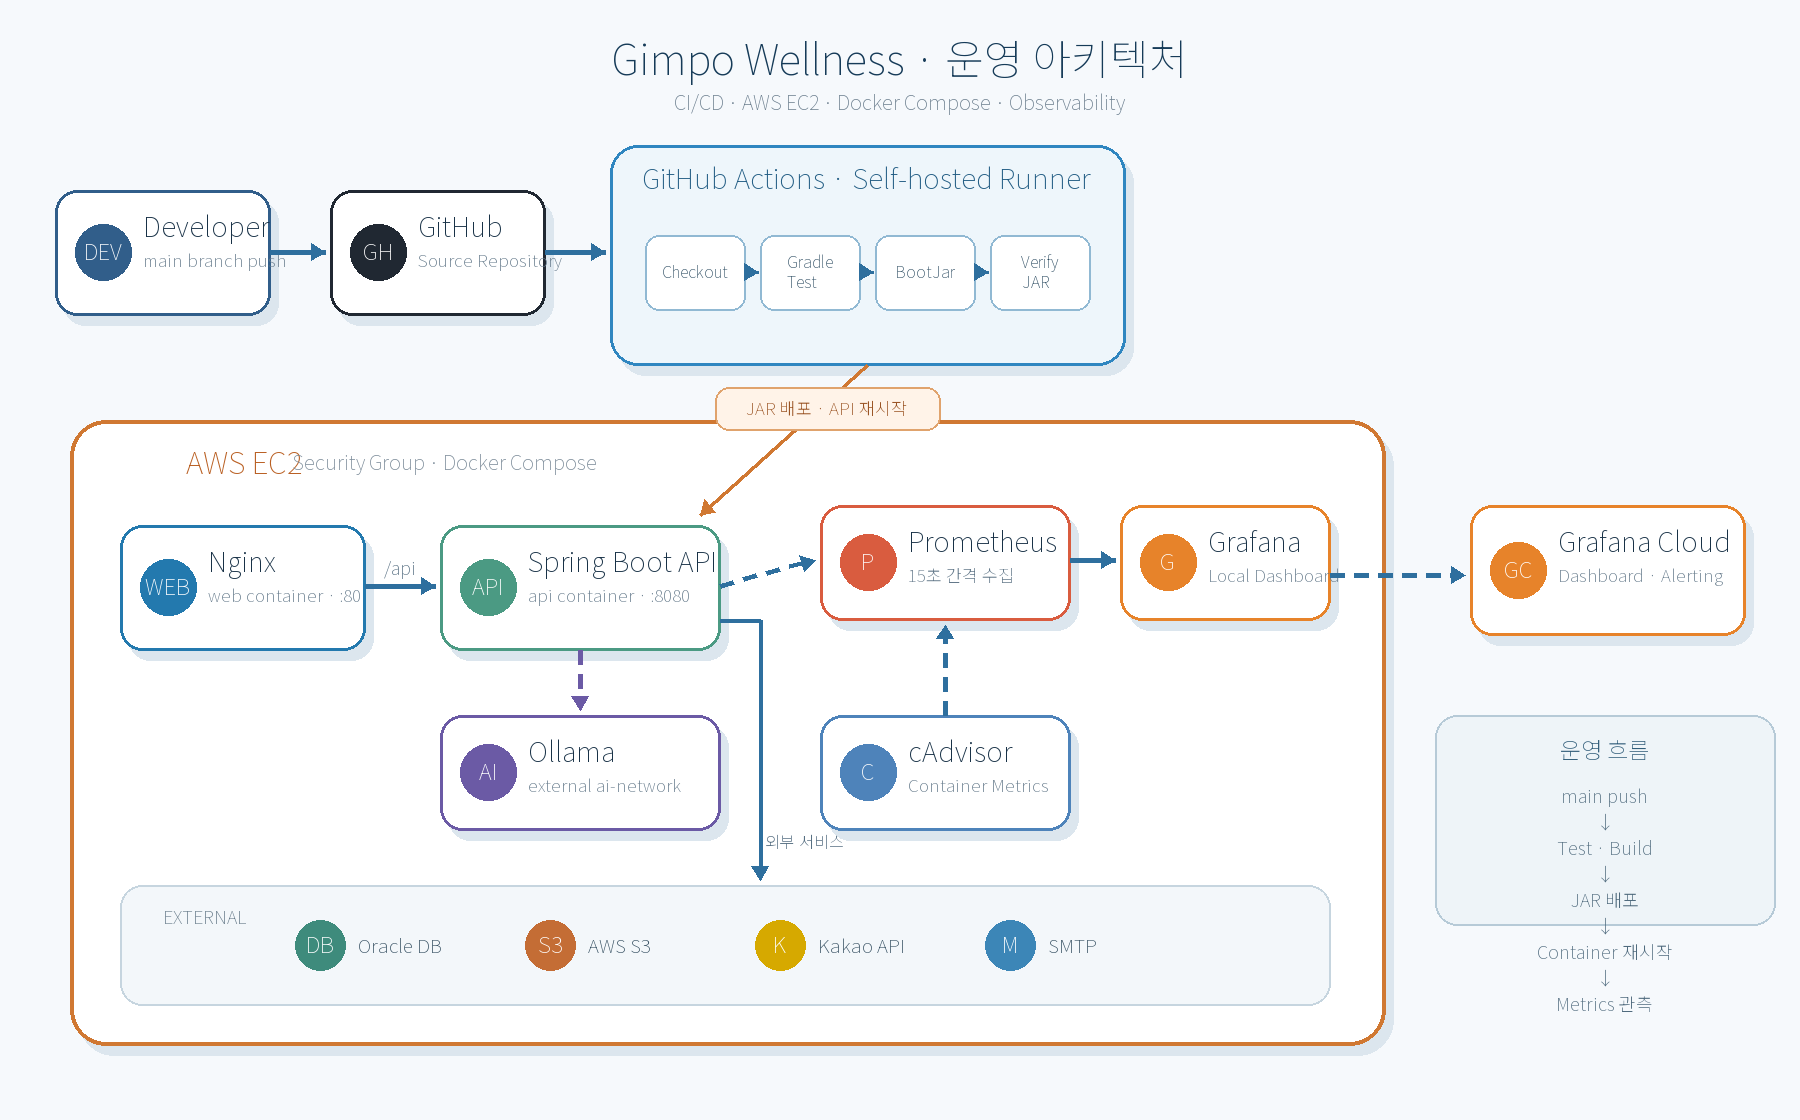
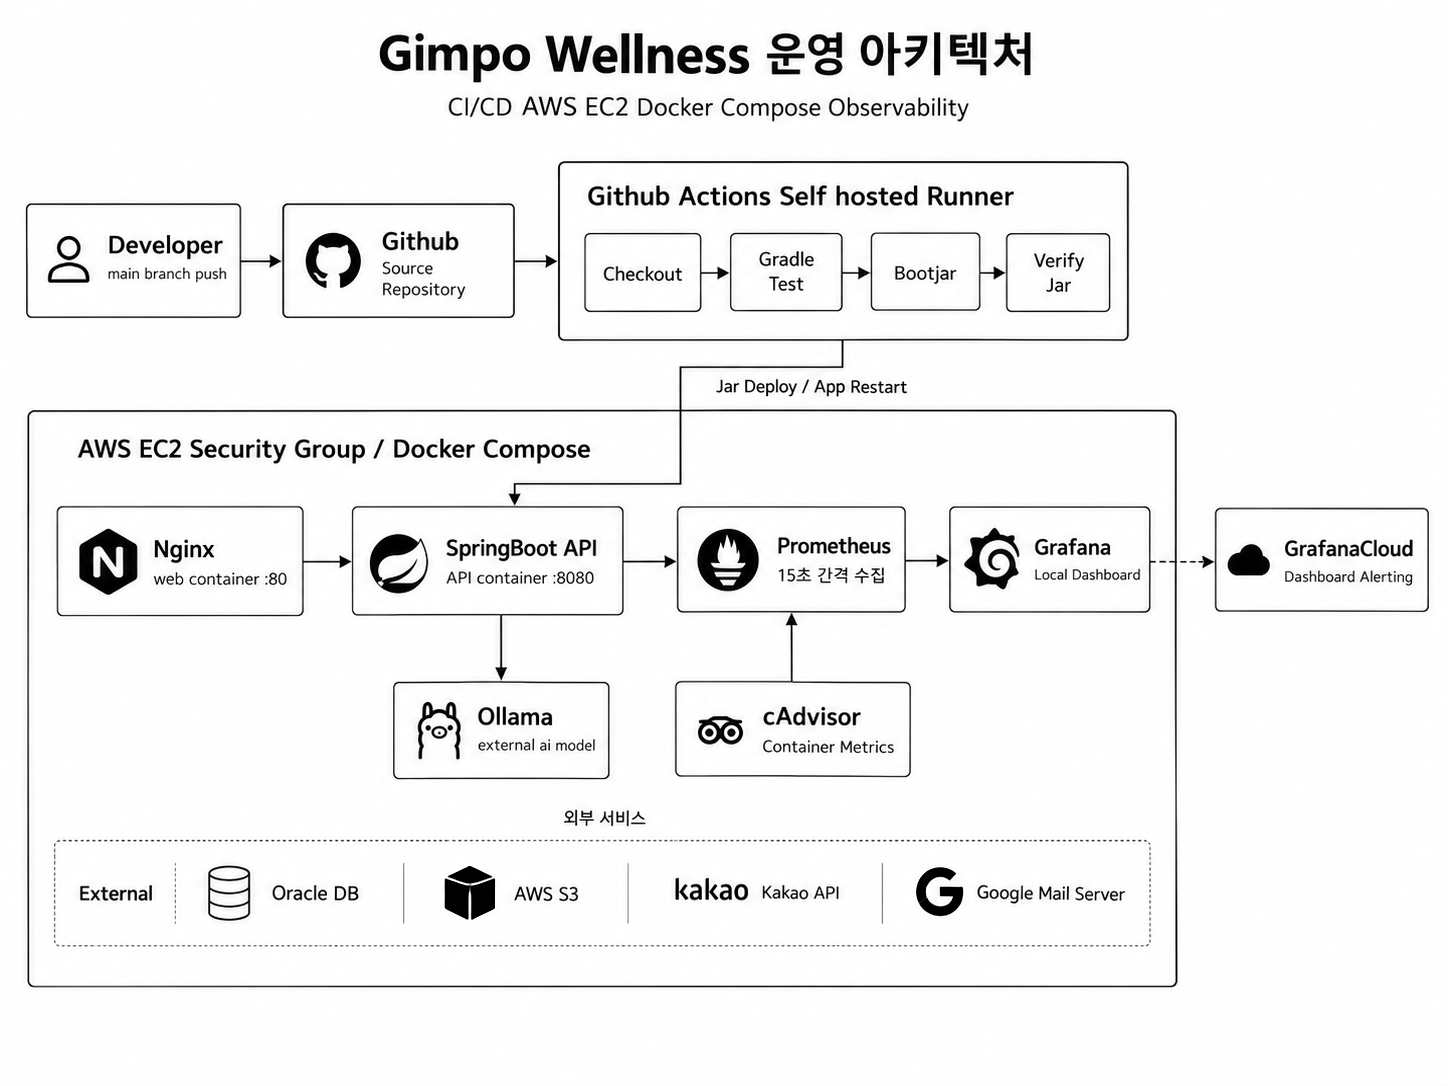
fix:아키텍처 이미지 교체 및 docker-compose 최신화

diff --git a/README.md b/README.md
@@ -2,8 +2,6 @@
 
 > 김포 관광 데이터를 연결하고, 사용자 조건에 맞는 여행 코스를 만드는 백엔드 API 서버
 
-
-
 <p align="center">
   <a href="https://gimpo-wellness.com">
     <img src="https://img.shields.io/badge/배포_서비스-바로가기-2F6F61?style=for-the-badge&logo=safari&logoColor=white" alt="배포 서비스 바로가기" />
@@ -13,7 +11,6 @@
   </a>
 </p>
 
-<!-- 완성된 GIF를 docs/images/gimpo-wellness-intro.gif 경로에 추가합니다. -->
 <p align="center">
   <img src="docs/images/gimpo-wellness-intro.gif" alt="Gimpo Wellness 프로젝트 소개" width="900" />
 </p>
@@ -28,12 +25,12 @@ Gimpo Wellness는 김포의 관광지·음식점·체험 시설을 한곳에서 
 
 백엔드는 이를 장소 통합 조회, 세부 분류와 태그, 김포 TOP 10, 주변 음식점, 길찾기, 여행 코스 추천 API로 구체화했습니다. 실시간 영업 여부와 단체 수용 인원처럼 검증 데이터가 부족한 항목은 향후 과제로 구분했습니다.
 
-| 항목 | 내용 |
-| --- | --- |
-| 프로젝트명 | Gimpo Wellness |
-| 팀명 | 웰니스와 깃커밋 |
-| 개발 기간 | 2026.08.18 ~ 2026.09.11 |
-| 개발 인원 | 4명 |
+| 항목       | 내용                    |
+| ---------- | ----------------------- |
+| 프로젝트명 | Gimpo Wellness          |
+| 팀명       | 웰니스와 깃커밋         |
+| 개발 기간  | 2026.08.18 ~ 2026.09.11 |
+| 개발 인원  | 4명                     |
 
 ---
 
@@ -67,7 +64,7 @@ Gimpo Wellness는 김포의 관광지·음식점·체험 시설을 한곳에서 
   관광지를 개별적으로 검색하고 길찾기를 반복하는 과정에서 벗어나, 원하는 장소를 발견한 뒤 이동수단과 취향에 맞는 하나의 여행 코스까지 이어서 확인할 수 있도록 했습니다.
 
 - **이번 프로젝트에서 해결할 범위**  
-  관광 데이터 정제와 분류, 장소 조회, 이동수단별 길찾기, 여행·순례길 코스 생성, 인증·리뷰 API와 배포 전 자동 검증까지를 백엔드 범위로 구현했습니다. 실시간 영업 여부와 단체 수용 정보 갱신은 검증 가능한 데이터가 부족해 후속 과제로 남겼습니다.
+  관광 데이터 정제와 분류, 장소 조회, 이동수단별 길찾기, 여행·순례길 코스 생성, 인증·리뷰 API와 배포 전 자동 검증까지를 백엔드 범위로 구현했습니다.
 
 ---
 
@@ -155,10 +152,10 @@ AI 응답은 정해진 스키마로 검증하며, 장소 선정과 경로 결정
 추천 점수와 주요 비즈니스 규칙을 테스트로 먼저 정의하고 `Red → Green → Refactor` 흐름으로 구현했습니다. 테스트와 QA에서 발견한 문제는 Notion 이슈관리대장에 우선순위·담당자·상태와 함께 기록했습니다.
 
 | 전체 이슈 | 완료 | 진행 중 | 시작 전 |
-| ---: | ---: | ---: | ---: |
-| 19건 | 12건 | 2건 | 5건 |
+| --------: | ---: | ------: | ------: |
+|      19건 | 19건 |     0건 |     0건 |
 
-카테고리 번호 정합성, 회원가입 500 오류, 관리자 코스 등록, 사용자 코스 생성 오류 등 12건을 완료했습니다. 중복 리뷰와 리뷰 이미지 MIME 검증은 진행 중이며, 대중교통 404 응답 등은 후속 이슈로 관리하고 있습니다.
+카테고리 번호 정합성, 회원가입 500 오류, 관리자 코스 등록, 사용자 코스 생성 오류 등 19건을 완료했습니다.
 
 ### 30인 베타 테스트
 
@@ -174,45 +171,43 @@ AI 응답은 정해진 스키마로 검증하며, 장소 선정과 경로 결정
 
 요구사항, API 명세, ERD, 배포 기준, TDD 결과와 QA 이슈를 Notion의 `웰니스와 깃커밋` 워크스페이스에서 관리했습니다. GitHub Issue와 Pull Request로 코드 변경을 추적하고, 배포 결과와 커밋 정보는 Slack으로 공유했습니다.
 
-| 기간 | 백엔드 주요 작업 |
-| --- | --- |
-| 08.18 ~ 08.21 | 인터뷰 준비, 요구사항 분석, 도메인·데이터 모델 설계 |
-| 08.25 ~ 08.28 | API 명세, Oracle·MyBatis, JWT 인증, 배포 환경 구성 |
-| 08.31 ~ 09.04 | 장소·회원·리뷰·고정 코스·경로 조회 API 구현 |
+| 기간          | 백엔드 주요 작업                                     |
+| ------------- | ---------------------------------------------------- |
+| 08.18 ~ 08.21 | 인터뷰 준비, 요구사항 분석, 도메인·데이터 모델 설계  |
+| 08.25 ~ 08.28 | API 명세, Oracle·MyBatis, JWT 인증, 배포 환경 구성   |
+| 08.31 ~ 09.04 | 장소·회원·리뷰·고정 코스·경로 조회 API 구현          |
 | 09.07 ~ 09.08 | 추천 코스, 순례길 코스, 태그·이미지·이메일 인증 연동 |
-| 09.09 ~ 09.11 | 통합 오류 수정, TDD, 배포 후 검증과 이슈 관리 |
+| 09.09 ~ 09.11 | 통합 오류 수정, TDD, 배포 후 검증과 이슈 관리        |
 
 ---
 
 ## 프로젝트 결과
 
-| 영역 | 결과 |
-| --- | --- |
-| 장소 데이터 | 원본 1,264건을 검토해 411곳 선정 |
-| 분류 데이터 | 태그 16종, 장소-태그 관계 1,166건 구성 |
-| 경로 조회 | 자동차·대중교통·자전거·도보 응답 통합 |
-| 여행 추천 | 선호 장소·태그·거리 조건 기반 3~10곳 코스 생성 |
+| 영역        | 결과                                                              |
+| ----------- | ----------------------------------------------------------------- |
+| 장소 데이터 | 원본 1,264건을 검토해 411곳 선정                                  |
+| 분류 데이터 | 태그 16종, 장소-태그 관계 1,166건 구성                            |
+| 경로 조회   | 자동차·대중교통·자전거·도보 응답 통합                             |
+| 여행 추천   | 선호 장소·태그·거리 조건 기반 3~10곳 코스 생성                    |
 | 순례길 코스 | 사찰·김포성당 목적지 조회, 경로 주변 경유지 추천과 방문 순서 계산 |
-| 인증·파일 | JWT·이메일 인증, S3 이미지 관리 |
-| 품질 관리 | CI 테스트 통과 후 자동 배포, 이슈관리대장 19건 관리 |
+| 인증·파일   | JWT·이메일 인증, S3 이미지 관리                                   |
+| 품질 관리   | CI 테스트 통과 후 자동 배포, 이슈관리대장 19건 관리               |
 
 ### 향후 과제
 
 - 외부 경로 API와 Ollama 장애 시 대체 응답 보완
-- 여행 계획을 DB에 저장해 여러 기기에서 조회하도록 확장
-- 음식점 영업 정보와 단체 수용 정보를 갱신할 절차 마련
-- 리뷰·좋아요 기반 추천의 조작 방지와 정렬 정책 구체화
+- 단체 수용 정보를 갱신할 절차 마련
 
 ---
 
 ## 담당 역할
 
-| 팀원 | 백엔드 담당 영역 | GitHub |
-| --- | --- | --- |
-| **김선겸** | 이동수단별 경로 조회, 현재 위치 기반 계획, 선호 장소·태그 기반 여행 코스 추천 | <a href="https://github.com/kkimmun"><img src="https://img.shields.io/badge/GitHub-kkimmun-FF6B6B?style=flat-square&logo=github&logoColor=white" alt="kkimmun GitHub" /></a> |
-| **윤성현** | 이메일 중복 확인, 인증 코드 발송·만료 검증, 데이터·배포 환경 | <a href="https://github.com/koyong3941-cell"><img src="https://img.shields.io/badge/GitHub-koyong3941--cell-F5A623?style=flat-square&logo=github&logoColor=white" alt="koyong3941-cell GitHub" /></a> |
-| **이다산** | 고정 코스, 순례길 후보 추천·경로 비교, 이미지 라이선스 관리 | <a href="https://github.com/ham-zi"><img src="https://img.shields.io/badge/GitHub-ham--zi-00C853?style=flat-square&logo=github&logoColor=white" alt="ham-zi GitHub" /></a> |
-| **정주미** | 장소 목록·상세 조회 API, 분류·태그 기반 장소 조회 | <a href="https://github.com/peony639-lab"><img src="https://img.shields.io/badge/GitHub-peony639--lab-8E44EC?style=flat-square&logo=github&logoColor=white" alt="peony639-lab GitHub" /></a> |
+| 팀원       | 백엔드 담당 영역                                                              | GitHub                                                                                                                                                                                                |
+| ---------- | ----------------------------------------------------------------------------- | ----------------------------------------------------------------------------------------------------------------------------------------------------------------------------------------------------- |
+| **김선겸** | 이동수단별 경로 조회, 현재 위치 기반 계획, 선호 장소·태그 기반 여행 코스 추천 | <a href="https://github.com/kkimmun"><img src="https://img.shields.io/badge/GitHub-kkimmun-FF6B6B?style=flat-square&logo=github&logoColor=white" alt="kkimmun GitHub" /></a>                          |
+| **윤성현** | 이메일 중복 확인, 인증 코드 발송·만료 검증, 데이터·배포 환경                  | <a href="https://github.com/koyong3941-cell"><img src="https://img.shields.io/badge/GitHub-koyong3941--cell-F5A623?style=flat-square&logo=github&logoColor=white" alt="koyong3941-cell GitHub" /></a> |
+| **이다산** | 고정 코스, 순례길 후보 추천·경로 비교, 이미지 라이선스 관리                   | <a href="https://github.com/ham-zi"><img src="https://img.shields.io/badge/GitHub-ham--zi-00C853?style=flat-square&logo=github&logoColor=white" alt="ham-zi GitHub" /></a>                            |
+| **정주미** | 장소 목록·상세 조회 API, 분류·태그 기반 장소 조회                             | <a href="https://github.com/peony639-lab"><img src="https://img.shields.io/badge/GitHub-peony639--lab-8E44EC?style=flat-square&logo=github&logoColor=white" alt="peony639-lab GitHub" /></a>          |
 
 ---
 
